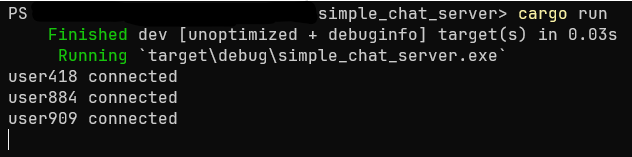
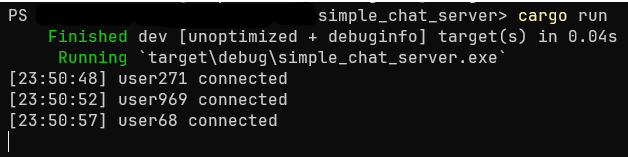
added timestamps to server connections and msgs
- main.rs: added the ability to print timestamps on the server and msgs. also added an asterisk to better show the user which msgs they sent
- changed the images
- cargo.toml: added the chrono crate to help track current time

diff --git a/src/main.rs b/src/main.rs
@@ -7,6 +7,8 @@ use tokio::{
     sync::broadcast,
 };
 
+use chrono::{Local, Timelike};
+
 #[tokio::main]
 async fn main() -> io::Result<()> {
     let listener = TcpListener::bind("127.0.0.1:8080").await?;
@@ -36,7 +38,14 @@ async fn main() -> io::Result<()> {
         // print to server which users connected
         let mut user_id = "user".to_owned();
         user_id.push_str(&number.to_string());
-        println!("{} connected", &user_id);
+        let now = Local::now();
+        println!(
+            "[{}:{}:{}] {} connected",
+            now.hour(),
+            now.minute(),
+            now.second(),
+            &user_id
+        );
 
         // spawn a thread everytime a different connection is open. without this, tasks are
         // blocked, single threaded, and queued. aka network is still blocked
@@ -72,7 +81,13 @@ async fn main() -> io::Result<()> {
                             break;
                         }
 
-                        line = user_id.clone() + ": " + &line;
+                        let now = Local::now();
+                        let (hour, minute, second) =
+                            (now.hour(), now.minute(), now.second());
+
+                        let military_time = format!("[{hour}:{minute}:{second}] ");
+
+                        line = military_time + &user_id + ": " + &line;
                         tx.send((line.clone(), addr)).unwrap();
                     }
                     // the part that receives msgs from the network and prints them
@@ -82,7 +97,7 @@ async fn main() -> io::Result<()> {
                         if addr != other_addr {
                             writer.write_all(msg.as_bytes()).await.unwrap();
                         } else {
-                            let mut user_sees_their_msg: String = "(you) ".to_owned();
+                            let mut user_sees_their_msg: String = "*".to_owned();
                             user_sees_their_msg.push_str(&msg);
                             writer.write_all(user_sees_their_msg.as_bytes()).await.unwrap();
                         }

diff --git a/README.md b/README.md
@@ -17,7 +17,7 @@ Clone the project to your system. Go to the project directory using your termina
 messages. 
 
 This program has no graceful shutdown (this may or may not change in the future), so to shut down the server (the following works in powershell, other terminals 
-may have different commands), go to the terminal where you typed `cargo run` and press Ctrl + c. To close particular users, press Ctrl + c and type 'quit'.
+may have different commands), go to the terminal where you typed `cargo run` and press ctrl + c. To close particular users, press ctrl + c and type 'quit'.
 
 # Examples
 
@@ -47,7 +47,6 @@ For a list of possible fixes and other notes, please look at problems_changes_no
   users whenever a new user has connected. downside to this is that it
   may make the chat server look bloated with messages. i probably won't
   do this, but i'm still including it here.
-3. i might add some testing in the future
 
 # Notes on the project's conception
 
